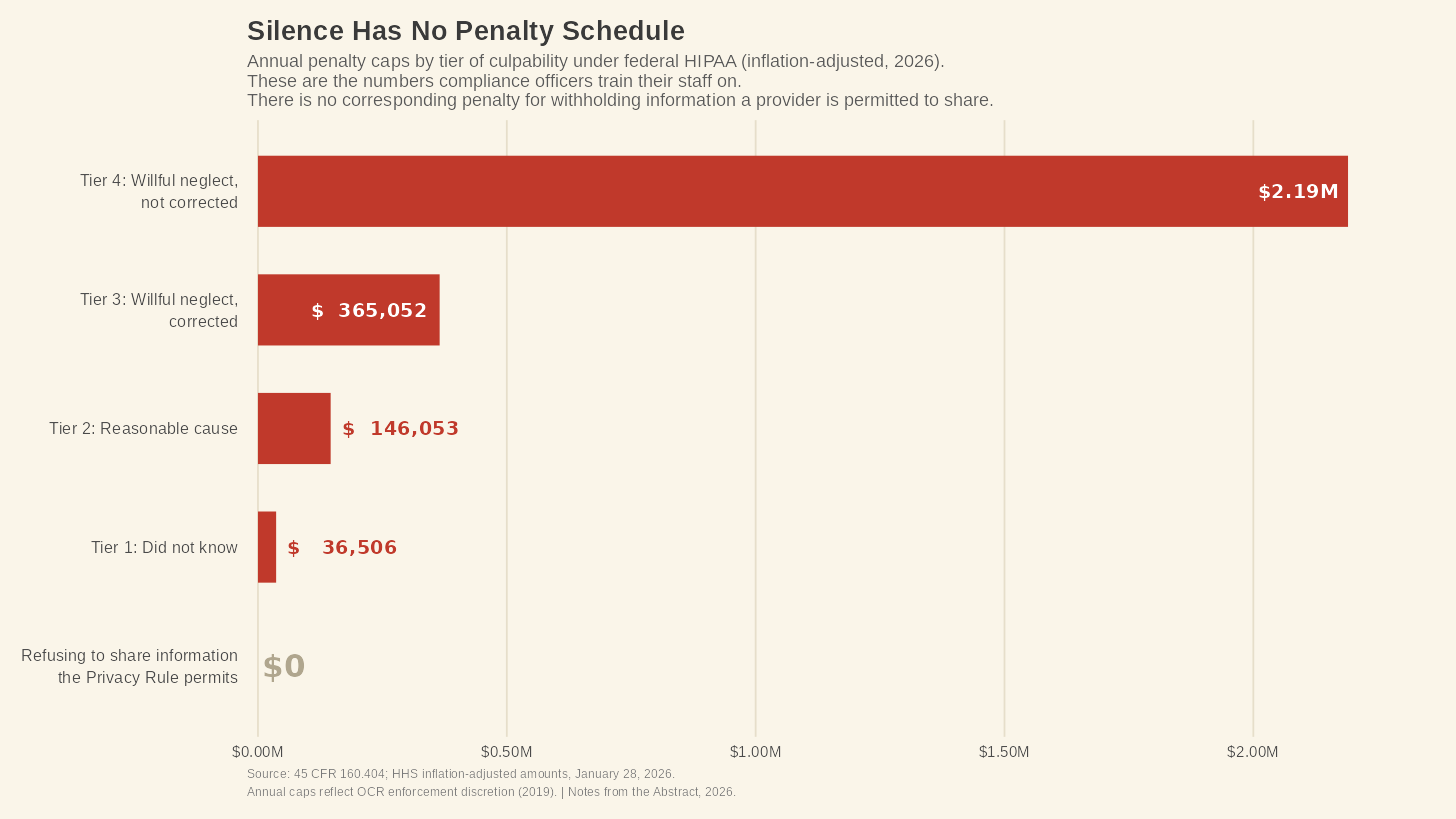
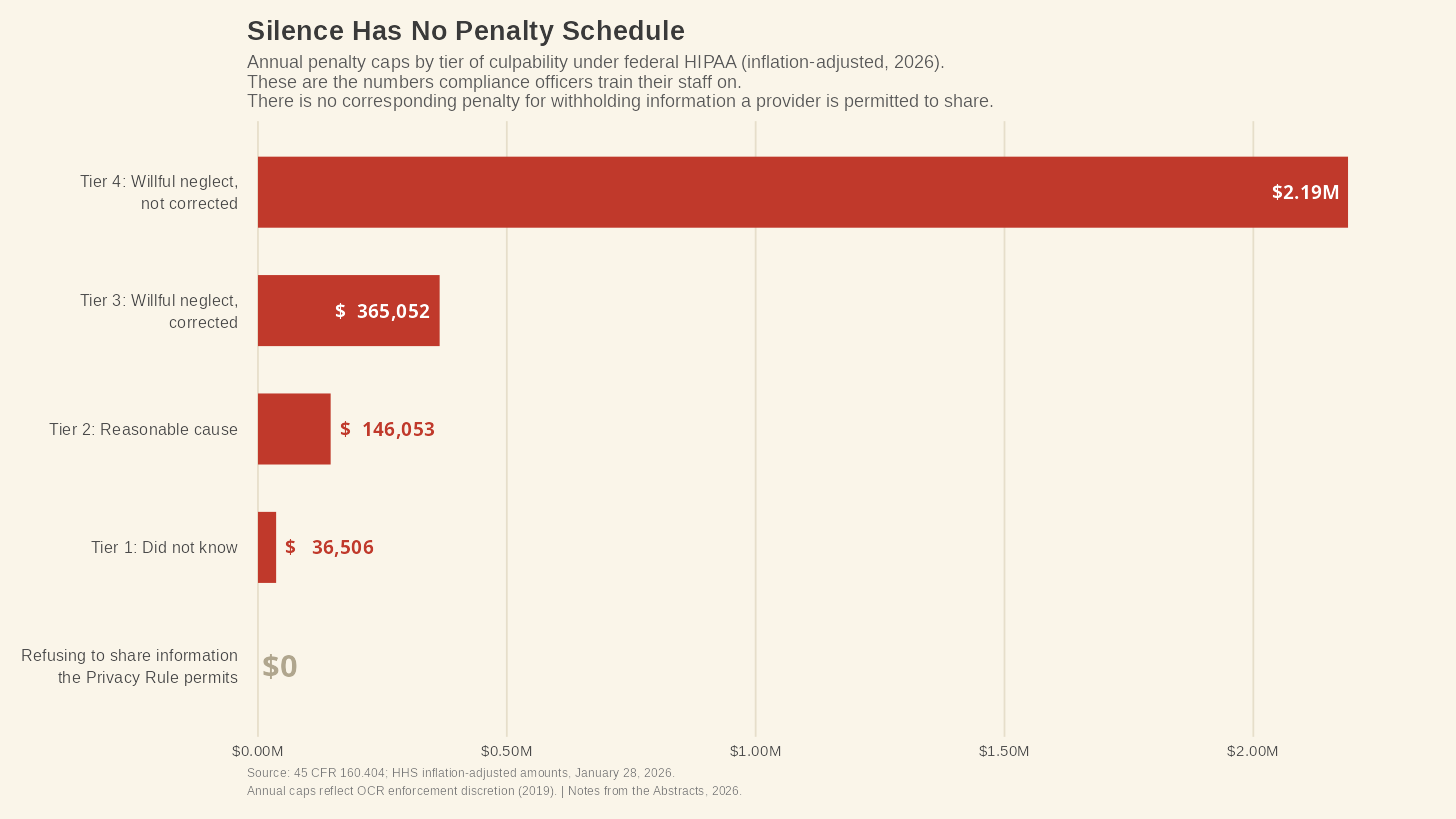
Fix blog name: Notes from the Abstracts (#1)

diff --git a/README.md b/README.md
@@ -1,12 +1,12 @@
 # The Folk Version
 
-**Notes from the Abstract** — Andrew R. Crocker, 2026
+**Notes from the Abstracts** — Andrew R. Crocker, 2026
 
 *Most Americans have never read HIPAA. The people who cite it haven't either.*
 
 ## About
 
-This repository contains the R code and rendered visualizations accompanying "The Folk Version," published on [Notes from the Abstract](https://andrewrcrocker.substack.com).
+This repository contains the R code and rendered visualizations accompanying "The Folk Version," published on [Notes from the Abstracts](https://andrewrcrocker.substack.com).
 
 The piece examines how the Health Insurance Portability and Accountability Act's Privacy Rule permits information sharing in circumstances most providers are trained to refuse, and how the penalty structure, compliance training culture, and state-level overlays (particularly Texas HB 300) create a rational incentive for silence over judgment.
 
